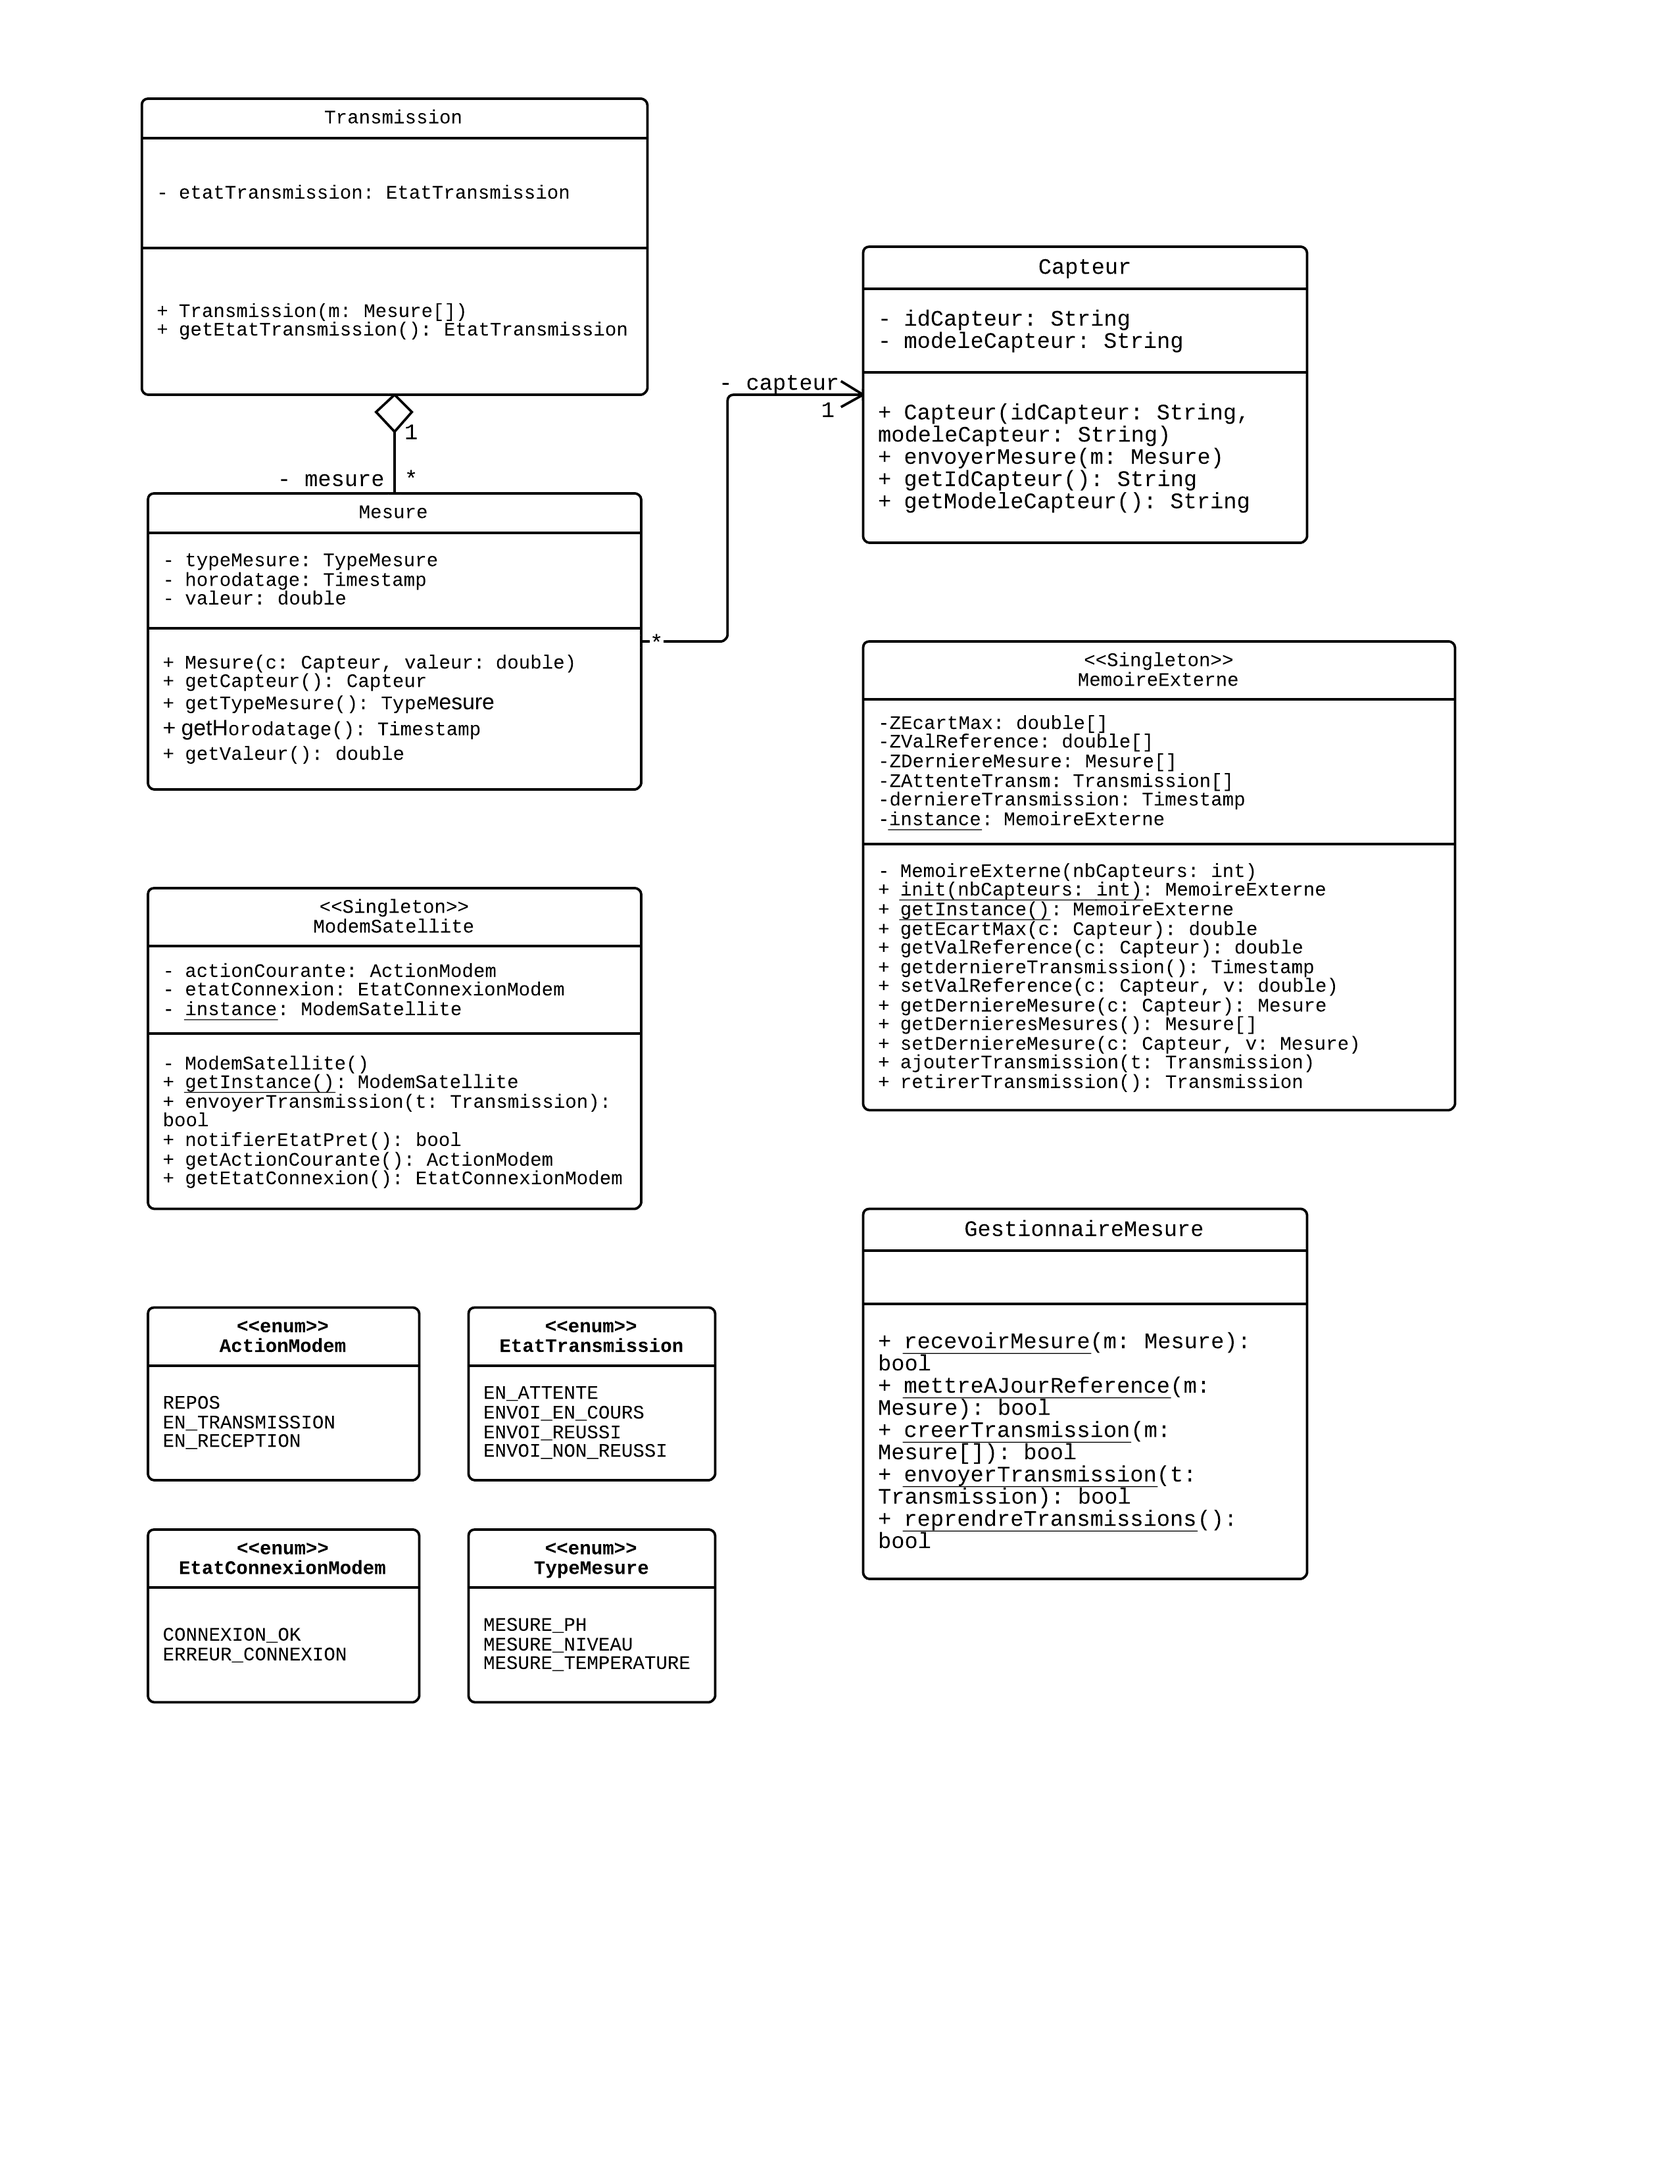
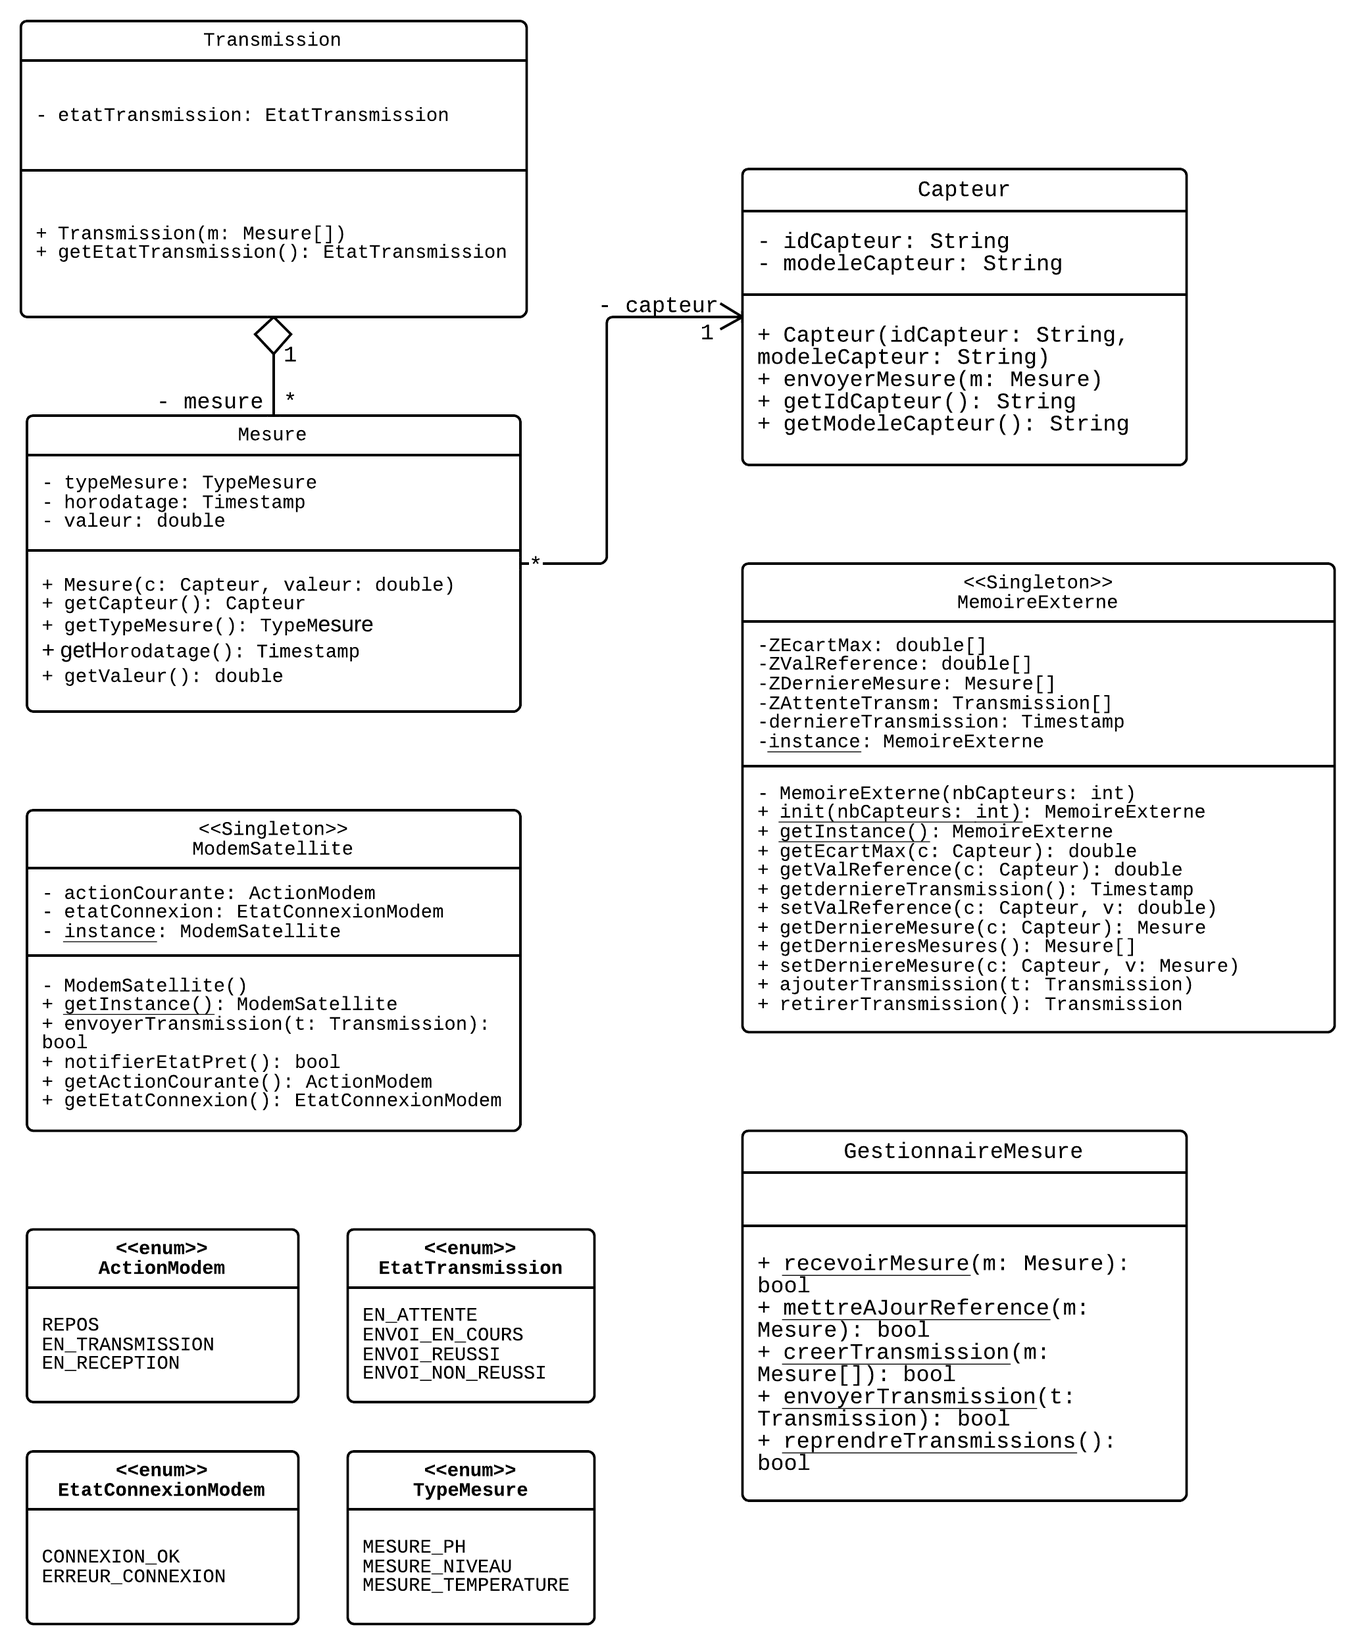
Retaillage des images et fin de la rédaction.

diff --git a/conception_detaillee.md b/conception_detaillee.md
@@ -100,7 +100,7 @@ Le processus suivant donne une vue logique du fonctionnement du sous-système. C
 
 Afin de détailler le fonctionnement du sous-système, plusieurs diagrammes sont présentés ci-après :
 
-- un découpage en classe logicielle du sous-système est proposé à la partie [2. Diagramme de classes](#2-diagramme-de-classes) ;
+- un découpage en classes logicielles du sous-système est proposé à la partie [2. Diagramme de classes](#2-diagramme-de-classes) ;
 - plusieurs diagrammes présentes les différents états et les activités des composants du sous-système [3. Diagrammes d'états et d'activités](#3-diagrammes-d%C3%A9tats-et-dactivit%C3%A9s) ;
 - plusieurs diagrammes de communication montre également comment ces classes interopèrent [4. Diagrammes de communication](#4-diagrammes-de-communication).
 
@@ -108,31 +108,64 @@ Afin de détailler le fonctionnement du sous-système, plusieurs diagrammes sont
 2. Diagramme de classes
 -----------------------
 
+Le découpage en classe logicielles de l'intégralité du sous-système est présenté dans le diagramme suivant. Les classes présentes sur ce diagramme sont à rapprocher de celles figurant sur les diagrammes de communication. Des références à ce diagramme seront faites par la suite.
+
 ![Figure manquante — Diagramme de classes du sous-système de prise en charge des données capteurs](../../raw/master/images/AdvancedConception/diagramme-de-classes.png "Diagramme de classes du sous-système de prise en charge des données capteurs")
 
 
 3. Diagrammes d'états et d'activités
 ------------------------------------
 
-Présentation des différents états, diagramme de transitions
+Pour introduire le diagramme qui suit, il faut se placer dans le cas où le sous-système aurait à traiter une nouvelle donnée qu'il vient de recevoir.
+
+Ce diagramme d'activité montre alors les actions entreprises par le sous-système, pour déterminer s'il doit y avoir transmission et/ou mise à jour des valeurs de référence pour les capteurs dans la mémoire externe. La partie "transmission" proprement dite est détaillée dans le deuxième diagramme d'activité.
 
 ![Figure manquante — Diagramme d'activité : après réception d'une mesure](../../raw/master/images/AdvancedConception/da-apres-reception-d-une-mesure.png "Diagramme d'activité : après réception d'une mesure")
+Diagramme d'activité : après réception d'une mesure
+
+Détail de la partie transmission du diagramme d'activité précédent :
 
 ![Figure manquante — Diagramme d'activité : transmission](../../raw/master/images/AdvancedConception/da-transmission.png "Diagramme d'activité : transmission")
+Diagramme d'activité : transmission
 
-![Figure manquante — Diagramme d'état : transmission](../../raw/master/images/AdvancedConception/de-transmission.png "Diagramme d'état : transmission")
+Du point de vue de l'état du sous-système, on peut remarquer que plusieurs classes (`Transmission` et `ModemSatellite`) peuvent se trouver dans des états différents, au cours du traitement d'une nouvelle mesure. Une transmission peut en effet échouer, elle doit alors être retentée, ou réussir et elle peut alors être supprimée de la mémoire externe. Le diagramme suivant présente les différents états dans lesquels la classe `Transmission` peut être, ainsi que les transitions qui la font passer d'un état à l'autre.
 
-![Figure manquante — Diagramme d'état : modem](../../raw/master/images/AdvancedConception/de-modem.png "Diagramme d'état : modem")
+![Figure manquante — Diagramme d'état : Transmission](../../raw/master/images/AdvancedConception/de-transmission.png "Diagramme d'état : Transmission")
+Diagramme d'état : `Transmission`
+
+Enfin, directement corrélé au succès de l'envoie d'une transmission, la connexion Internet du modem satellite peut elle aussi s'interrompre. Le modem satellite peut donc être dans plusieurs états lui aussi, présentés ci-dessous :
+
+![Figure manquante — Diagramme d'état : ModemSatellite](../../raw/master/images/AdvancedConception/de-modem.png "Diagramme d'état : ModemSatellite")
+Diagramme d'état : `ModemSatellite`
 
 
 4. Diagrammes de communication
 ------------------------------
-Collecte d'informations, divers tests, envoi
+
+Les diagrammes précédents permettent de comprendre dans quels états passe le sous-système, au cours du traitement d'une nouvelle mesure, et ils permettent de visualiser les actions entreprises par le sous-système. Mais ils offrent une vue grossière de la façon dont les blocs fonctionnels du sous-système (la mémoire externe, le modem satellite, etc.) interagissent entre eux.
+
+Pour avoir une idée plus fine des interactions ayant lieu entre les classes présentées dans le diagramme de classe de la [partie 2](#2-diagramme-de-classes), il est nécessaire d'avoir des diagrammes de communication.
+
+On peut donc reprendre le scénario envisagé à la partie précédente (cas du traitement de l'arrivée d'une nouvelle mesure et de sa transmission) en étudiant cette fois les communications mises en jeu entre les différentes classes du sous-système.
+
+Le diagramme suivant présente justement ces communications lorsque le sous-système met à jour la dernière mesure reçue pour un capteur dans la mémoire externe :
 
 ![Figure manquante — Diagramme de communication : enregistrement d'une mesure](../../raw/master/images/AdvancedConception/dc-enregistrement-d-une-mesure.png "Diagramme de communication : enregistrement d'une mesure")
+Diagramme de communication : enregistrement d'une mesure
+
+Le diagramme suivant présente les communications entre les classes du sous-système lorsque ce dernier détermine qu'une transmission doit être effectué, puis qu'il envoie les données au modem.
 
 ![Figure manquante — Diagramme de communication : transmission](../../raw/master/images/AdvancedConception/dc-transmission.png "Diagramme de communication : transmission")
+Diagramme de communication : transmission
 
 
 5. Validation croisée
 ---------------------
+
+La conception de ce sous-système a été menée avec un objectif de cohérence en tête. Afin de garantir cette cohérence lors de la conception, et donc de s'assurer de la qualité de notre solution, nous avons eu recours à une technique appelée "validation croisée des modèles".
+
+Ainsi, les différents diagrammes ont fréquemment été confrontés, quand ils n'étaient pas carrément élaborés en parallèle, pour faire apparaître les incohérences et pouvoir les corriger. Grâce à cette approche plusieurs erreurs ont été évitées.
+
+Par exemple, à un certain moment, la classe `MemoireExterne` n'était pas un singleton. Il est apparu en faisant les diagrammes de communication qu'il était judicieux de changer cela, pour garantir que les autres classes accéderait bien à la même instance de `MemoireExterne`, ce qui est crucial compte tenu du rôle de "mémoire" de cette classe.
+
+De même, en confrontant les diagrammes d'états et de classe, on peut bien s'assurer que les énumérations sont complètes, c'est-à-dire que tous les états présents dans les diagrammes d'états se retrouvent dans l'une des quatre énumération du diagramme de classe (ce qui encore une fois a été corrigé grâce à la validation croisée).
